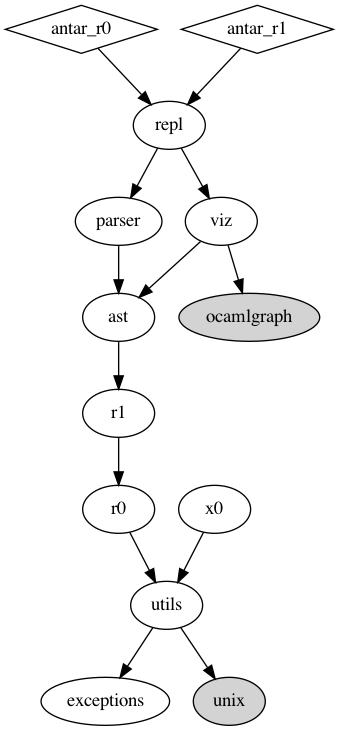
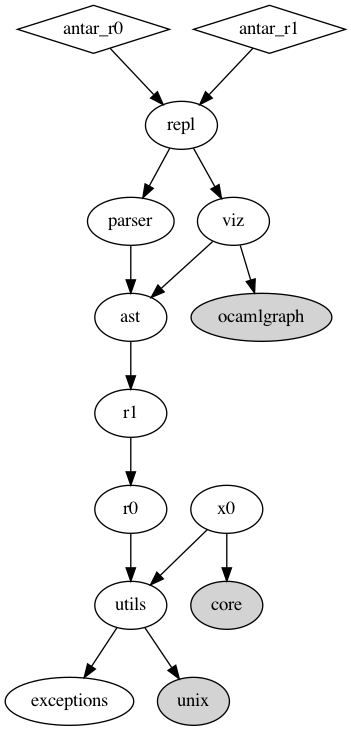
Completed 'Task #22 - Connect your X0 test suite to your system assembler'

diff --git a/runtime/runtime.c b/runtime/runtime.c
@@ -1,0 +1,15 @@
+#include <stdio.h>
+
+int entry();
+
+int read() {
+  int x;
+  scanf("%d", &x);
+  return x;
+}
+
+int main() {
+  printf("%d\n", entry());
+  return 0;
+}
+
